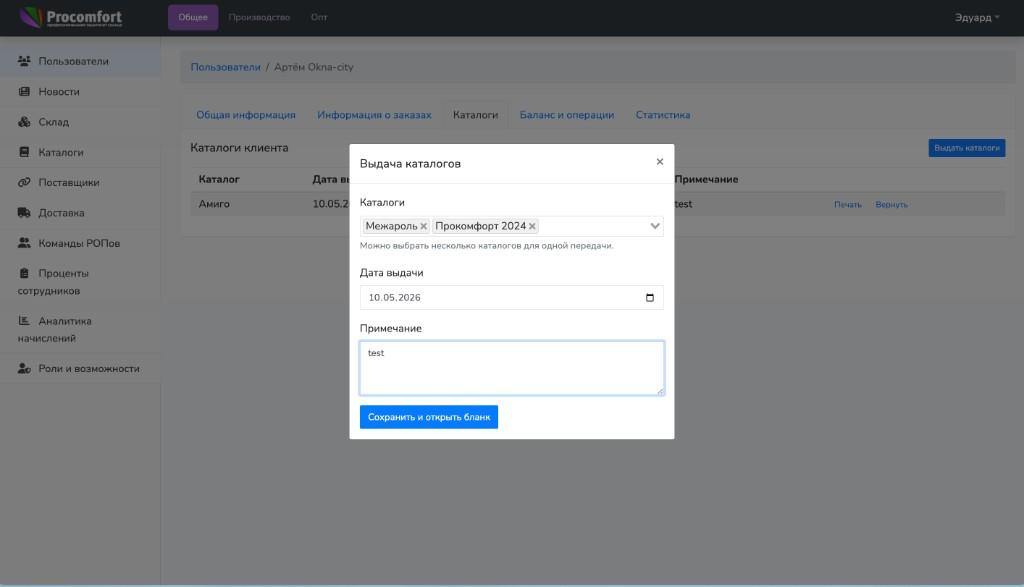
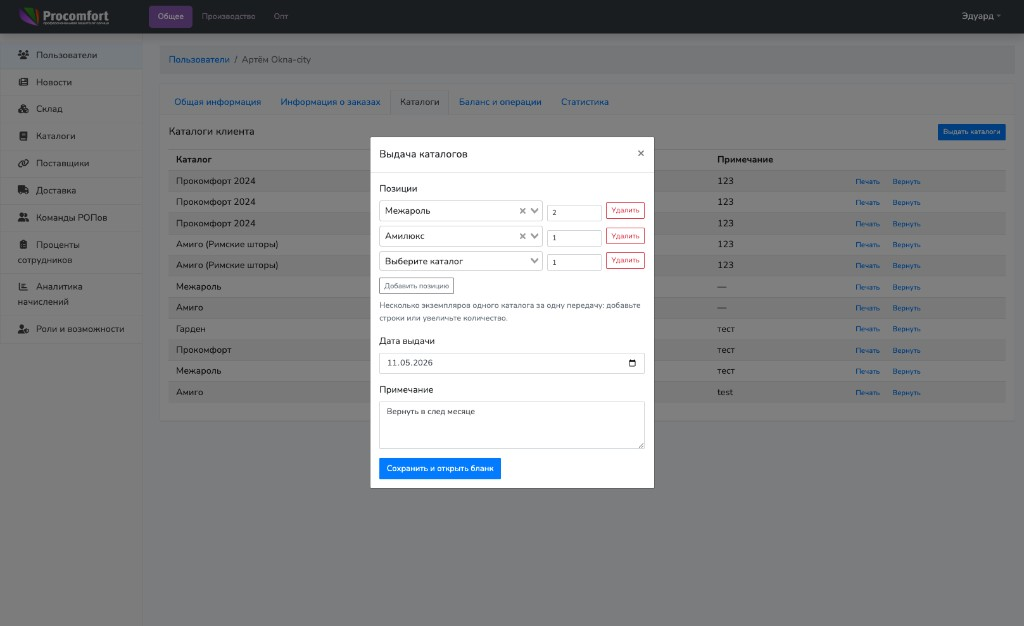
docs(rop-catalogs): update user guide and issue/print screenshots

diff --git a/docs/features/rop-catalogs/user-guide.md b/docs/features/rop-catalogs/user-guide.md
@@ -21,11 +21,11 @@
 
 Открыть клиента: `Пользователи` -> нужный клиент -> вкладка `Каталоги`.
 
-Во вкладке отображаются только активные каталоги, то есть каталоги, которые выданы клиенту и еще не возвращены.
+На вкладке показываются только **активные** выдачи: то есть каталоги, по которым ещё не зафиксирован возврат.
 
-Возвращенные каталоги из этой вкладки скрываются, но остаются в истории и учитываются в аналитике.
+После возврата строка по этой выдаче **исчезает с этой вкладки** и больше не отображается в списке; данные по ней продолжают учитываться в **аналитике** раздела `Каталоги` → `Аналитика` и в общем учёте на стороне API.
 
-![Карточка клиента, вкладка «Каталоги»: список активных каталогов, «Выдать каталоги», «Вернуть» и «Печать» в строках](./screenshots/1-catalogs-tab.png)
+![Карточка клиента, вкладка «Каталоги»: список активных выдач, «Выдать каталоги», «Вернуть» и «Печать» в строках](./screenshots/1-catalogs-tab.png)
 
 ### 2.2 Аналитика
 
@@ -38,25 +38,25 @@
 1. Открыть карточку клиента.
 2. Перейти во вкладку `Каталоги`.
 3. Нажать `Выдать каталоги`.
-4. Выбрать один или несколько каталогов из списка.
+4. В блоке `Позиции` указать каталог и **количество** экземпляров (1–99) для каждой строки. Нужно несколько наименований или несколько экземпляров одной позиции — нажать `Добавить позицию` и заполнить ещё одну строку (либо повысить число в поле количества в существующей строке для одной передачи одного названия).
 5. Проверить дату выдачи. По умолчанию установлена сегодняшняя дата.
 6. При необходимости заполнить примечание.
 7. Нажать `Сохранить и открыть бланк`.
 
 Результат:
 
-- выбранные каталоги появляются во вкладке `Каталоги` клиента;
-- сохраняется дата выдачи;
-- сохраняется пользователь, который выдал каталог;
-- записи начинают учитываться как активные;
-- открывается бланк передачи выбранных каталогов.
+- по сохранении создаётся нужное число выдач, они появляются во вкладке `Каталоги` клиента как отдельные строки таблицы;
+- общая дата выдачи, ответственный и примечание одни на всю эту операцию (`transfer_uuid`/бланк);
+- строки активны до фиксации возврата;
+- автоматически открывается предпросмотр бланка в модальном окне (`Печать` внизу модалки, закрыть — крестик сверху).
 
-![Окно выдачи каталогов: выбор позиций, дата выдачи, примечание и «Сохранить и открыть бланк»](./screenshots/2-issue-catalogs-modal.png)
+![Окно выдачи: позиции (каталог и количество), дата выдачи, примечание](./screenshots/2-issue-catalogs-modal.png)
 
 Важно:
 
-- один и тот же каталог нельзя повторно выдать одному клиенту, пока активная выдача не возвращена;
-- если каталог уже был возвращен, его можно выдать клиенту повторно новой записью.
+- несколько одинаковых каталогов: либо **несколько строк** с одним наименованием, либо **поле количества** в одной строке — всё входит в **одну** передачу и один общий бланк; во вкладке клиента каждая единица учёта по-прежнему отображается **отдельной строкой**, возврат — по нужной строке;
+- несколько торговых точек у одного клиента трактуют как необходимость нескольких экземпляров — см. пункт выше;
+- после возврата по одной из записей остальные активные выдачи того же каталога не затрагиваются.
 
 ## 4. Вернуть каталог
 
@@ -86,10 +86,12 @@
 1. Открыть карточку клиента.
 2. Перейти во вкладку `Каталоги`.
 3. Выдать один или несколько каталогов.
-4. После сохранения откроется бланк передачи.
+4. После сохранения откроется бланк передачи во всплывающем окне (модальное); закрытие — крестиком в заголовке, печать — кнопкой `Печать` внизу.
 
 Также можно повторно открыть бланк: в строке любого активного каталога из этой передачи нажать `Печать`.
 Если в передаче было несколько каталогов, откроется общий бланк всей этой передачи.
+
+Предпросмотр показывает тот же бланк, что уйдёт в печать (без собственной панели «Назад»/«Печать» внутри документа при отображении во фрейме — печать с кнопки модалки).
 
 В бланке указываются:
 
@@ -97,8 +99,8 @@
 - передающая организация `ООО "Тролл"`;
 - кто передал каталоги;
 - дата передачи;
-- количество каталогов;
-- список передаваемых каталогов;
+- общее количество экземпляров каталогов (в блоке над таблицей);
+- таблица: без повторного перечисления одного названия — для каждой позиции указывается количество (`Кол-во`);
 - подписи `Передал` и `Принял`.
 
 ![Бланк передачи каталогов перед печатью](./screenshots/4-transfer-blank.png)
@@ -138,6 +140,8 @@
 
 ## 7. Ограничения доступа
 
+Ниже **администратор** означает роли с полным доступом к панели по учёту каталогов: главный администратор и администратор.
+
 ### Администратор
 
 - Видит активные каталоги любого клиента.
@@ -165,11 +169,11 @@
 
 ## 8. Частые вопросы
 
-**Почему возвращенный каталог пропадает из карточки клиента?**  
-Карточка клиента показывает только то, что сейчас находится у клиента. Возвращенные каталоги скрываются из активного списка, но сохраняются в истории и аналитике.
+**Почему после возврата строка пропала из вкладки «Каталоги»?**  
+Вкладка показывает только невозвращённые выдачи. После возврата строка здесь скрыта, но данные по этой операции сохраняются и учитываются в показателях вкладки `Аналитика` раздела `Каталоги`.
 
-**Почему нельзя выдать тот же каталог повторно?**  
-Повторная активная выдача запрещена, чтобы один и тот же каталог не числился у клиента дважды. Сначала нужно зафиксировать возврат.
+**Можно ли выдать несколько одинаковых каталогов?**  
+Да — у нескольких точек нужны отдельные экземпляры. При выдаче укажите количество или добавьте позиции: на бланке одинаковые наименования суммируются в колонку `Кол-во`, во вкладке клиента по-прежнему видны отдельные строки учёта, возврат — по нужной строке.
 
 **Можно ли удалить ошибочную выдачу?**  
 Удаление выдач через интерфейс не предусмотрено. Если запись создана ошибочно, нужно зафиксировать возврат и при необходимости создать корректную выдачу.